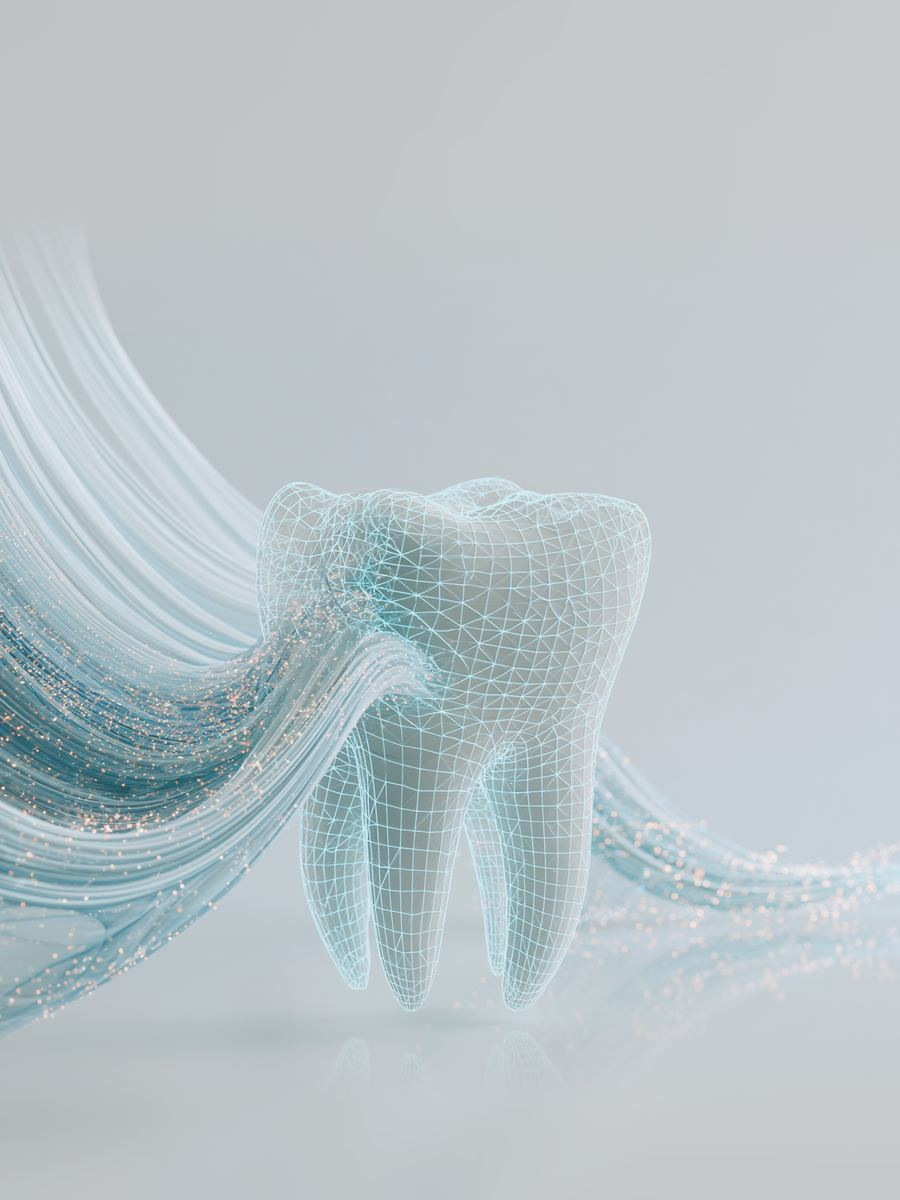
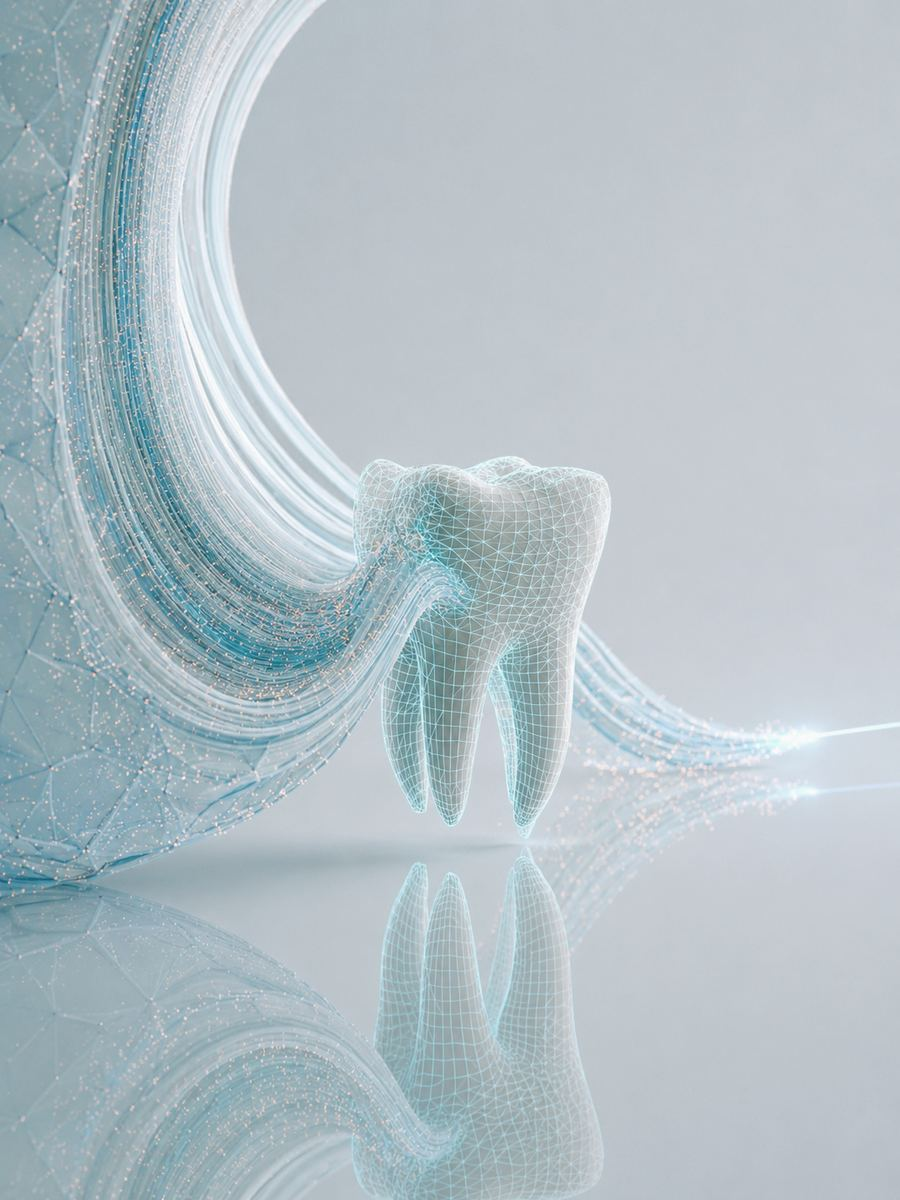
Use supplied mobile dental background

diff --git a/index.html b/index.html
@@ -215,16 +215,20 @@ function injectDentalWatermark() {
     '}',
     '@media (max-width: 540px) {',
     '  .bg-tooth-watermark {',
-    '    top: 36%;',
-    '    left: 50%;',
-    '    width: min(102vw, 430px);',
+    '    inset: 0;',
+    '    width: 100vw;',
+    '    height: 100svh;',
     '    max-width: none;',
-    '    aspect-ratio: 3 / 4;',
-    '    opacity: 0.58;',
-    '    transform: translate(-50%, -48%);',
+    '    aspect-ratio: auto;',
+    '    opacity: 0.5;',
+    '    transform: none;',
     '    filter: saturate(0.98) contrast(1.04) brightness(1.02);',
-    '    -webkit-mask-image: radial-gradient(ellipse at 50% 50%, #000 0%, #000 60%, transparent 86%);',
-    '    mask-image: radial-gradient(ellipse at 50% 50%, #000 0%, #000 60%, transparent 86%);',
+    '    -webkit-mask-image: none;',
+    '    mask-image: none;',
+    '  }',
+    '  .bg-tooth-watermark img {',
+    '    object-fit: cover;',
+    '    object-position: center top;',
     '  }',
     '}'
   ].join('\n');